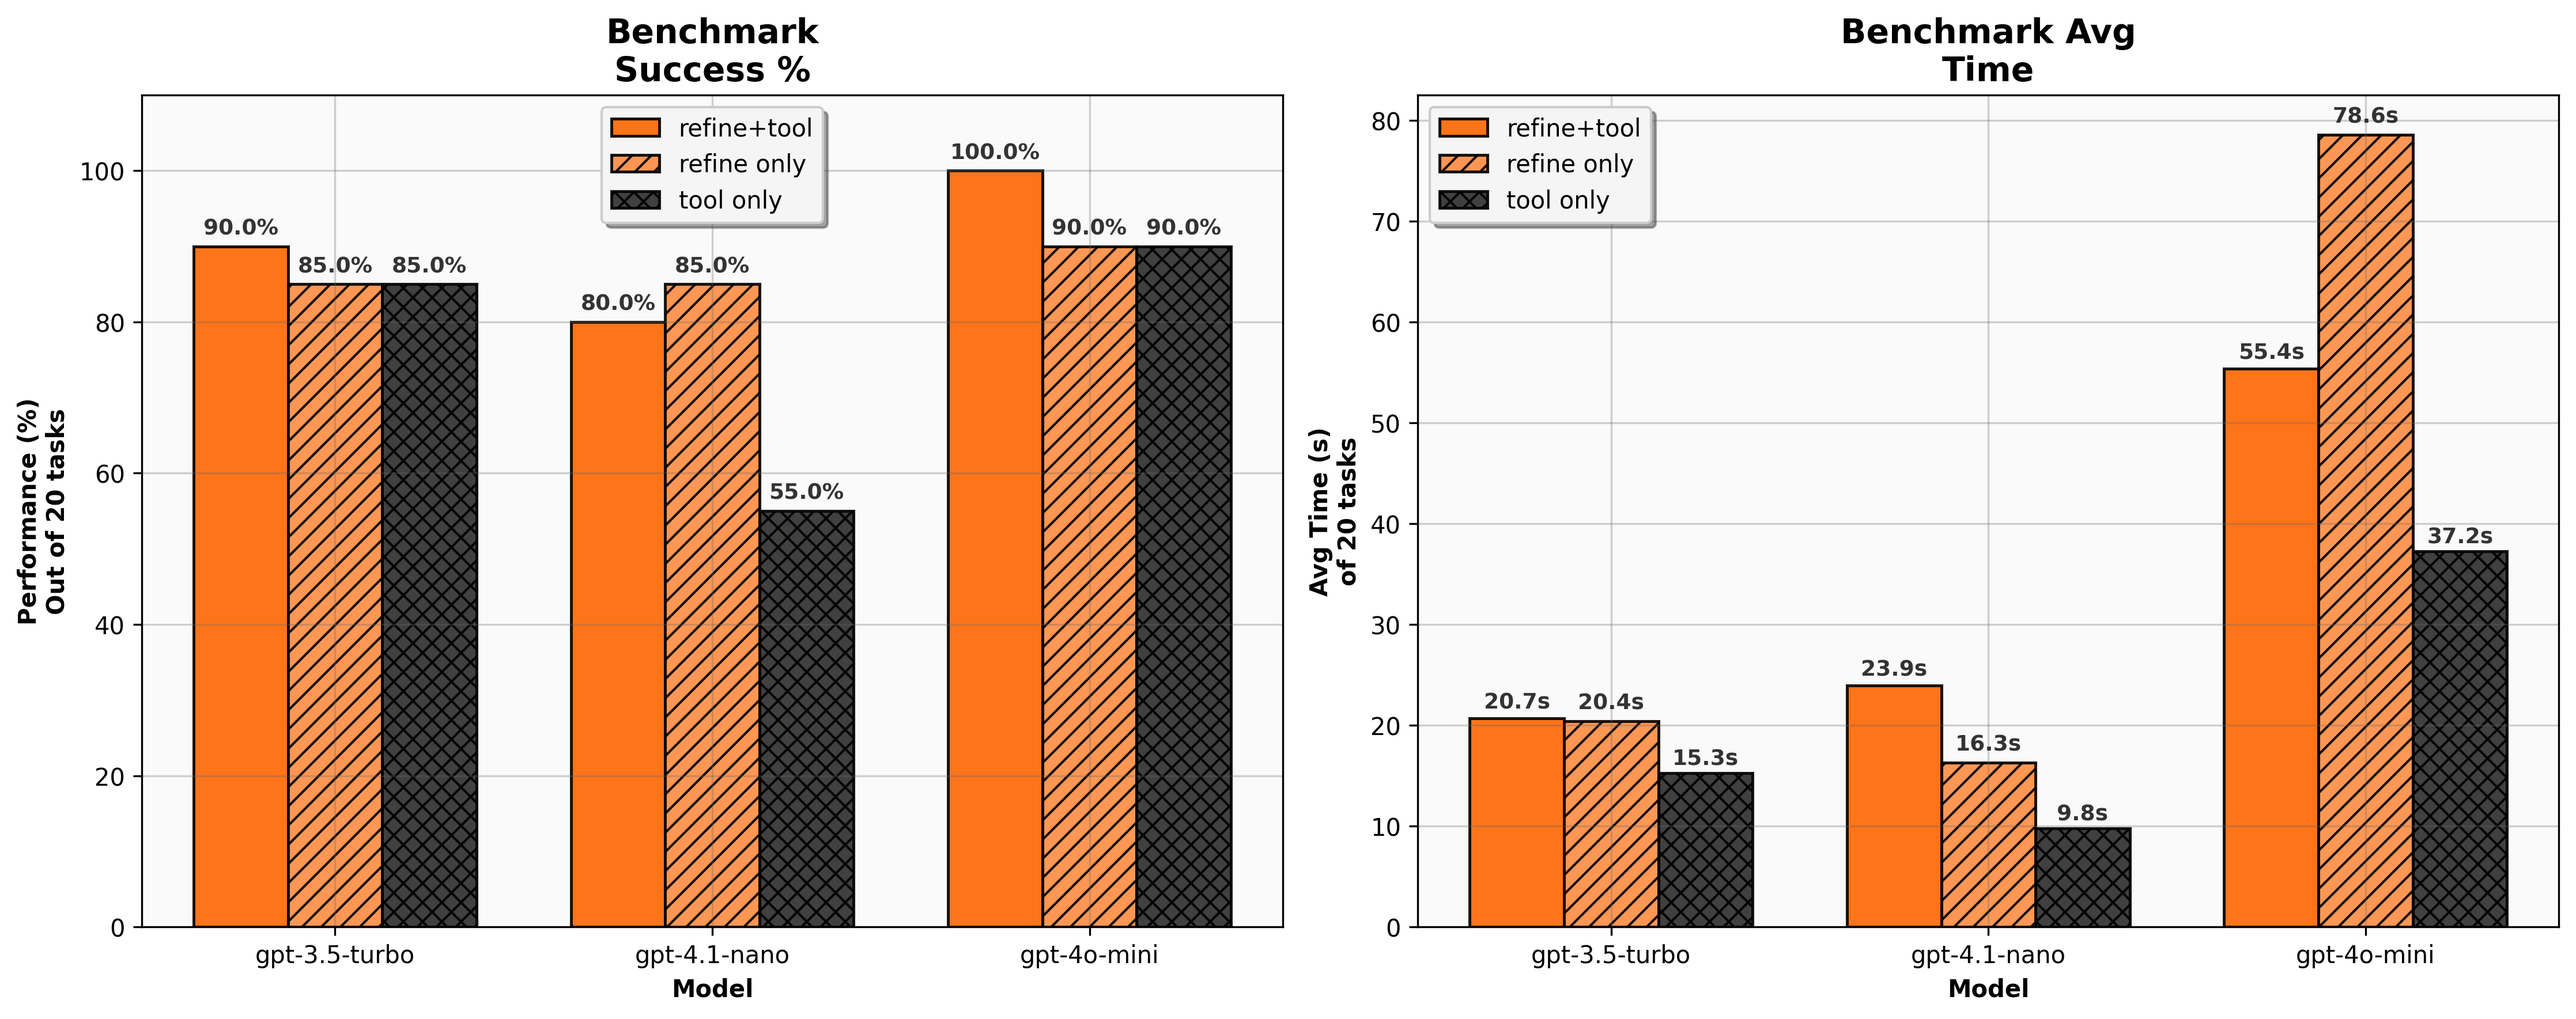
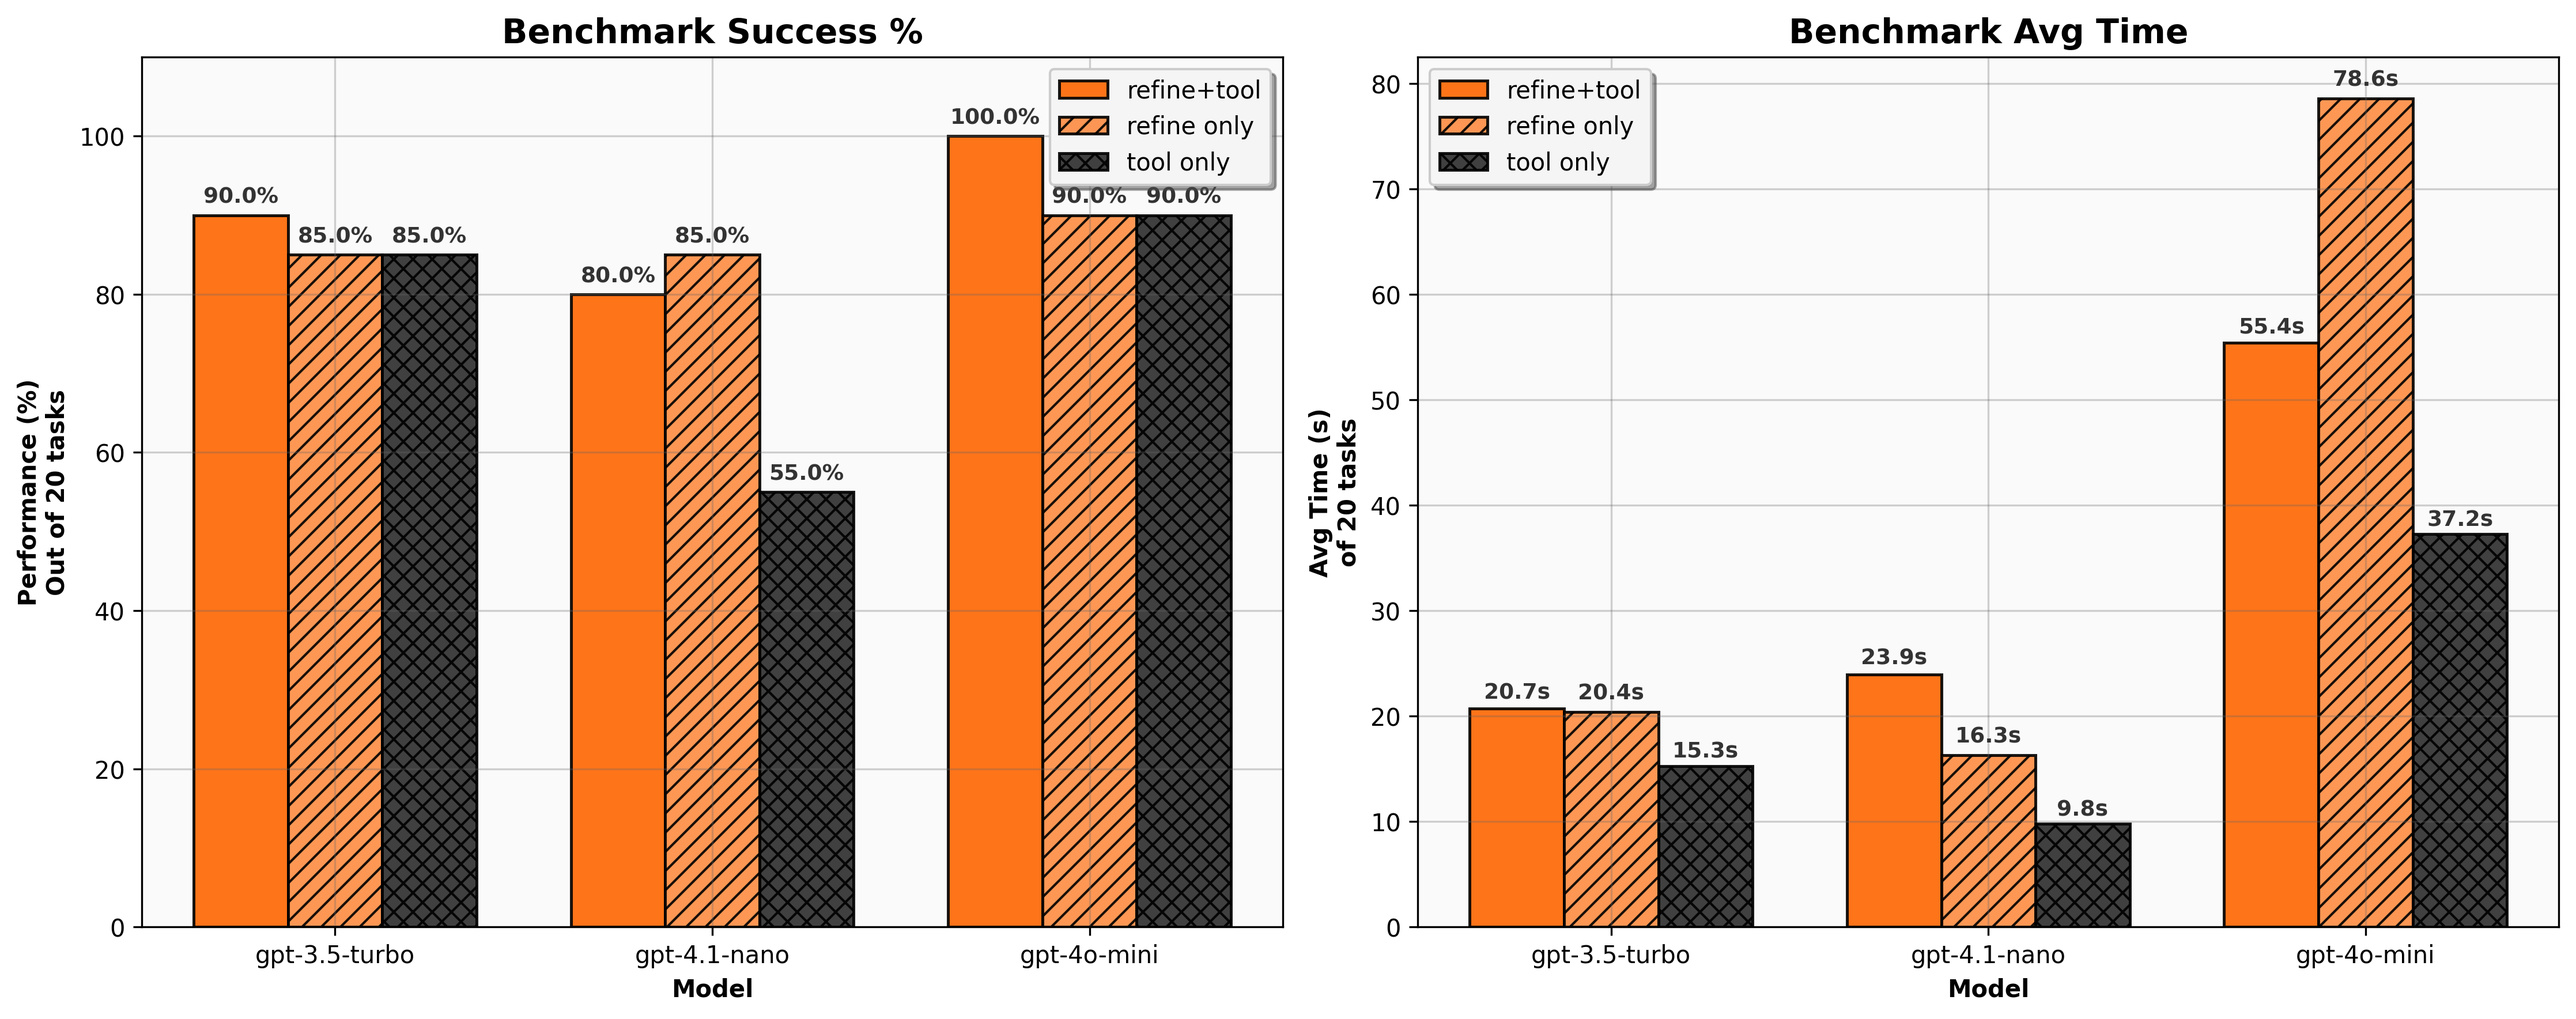
slight edit to the plots

diff --git a/scripts/plot_results.py b/scripts/plot_results.py
@@ -119,7 +119,7 @@ def create_benchmark_plots(df, figsize=(15, 6)):
     
     ax1.set_xlabel('Model', fontweight='bold')
     ax1.set_ylabel('Performance (%)\nOut of 20 tasks', fontweight='bold')
-    ax1.set_title('Benchmark\nSuccess %', fontweight='bold', fontsize=14)
+    ax1.set_title('Benchmark Success %', fontweight='bold', fontsize=14)
     ax1.set_xticks(x_pos + width)  # Center the labels
     ax1.set_xticklabels(models)
     ax1.legend(frameon=True, fancybox=True, shadow=True, facecolor='#F5F5F5')
@@ -155,7 +155,7 @@ def create_benchmark_plots(df, figsize=(15, 6)):
     
     ax2.set_xlabel('Model', fontweight='bold')
     ax2.set_ylabel('Avg Time (s)\nof 20 tasks', fontweight='bold')
-    ax2.set_title('Benchmark Avg\nTime', fontweight='bold', fontsize=14)
+    ax2.set_title('Benchmark Avg Time', fontweight='bold', fontsize=14)
     ax2.set_xticks(x_pos + width)  # Center the labels
     ax2.set_xticklabels(models)
     ax2.legend(frameon=True, fancybox=True, shadow=True, facecolor='#F5F5F5')
